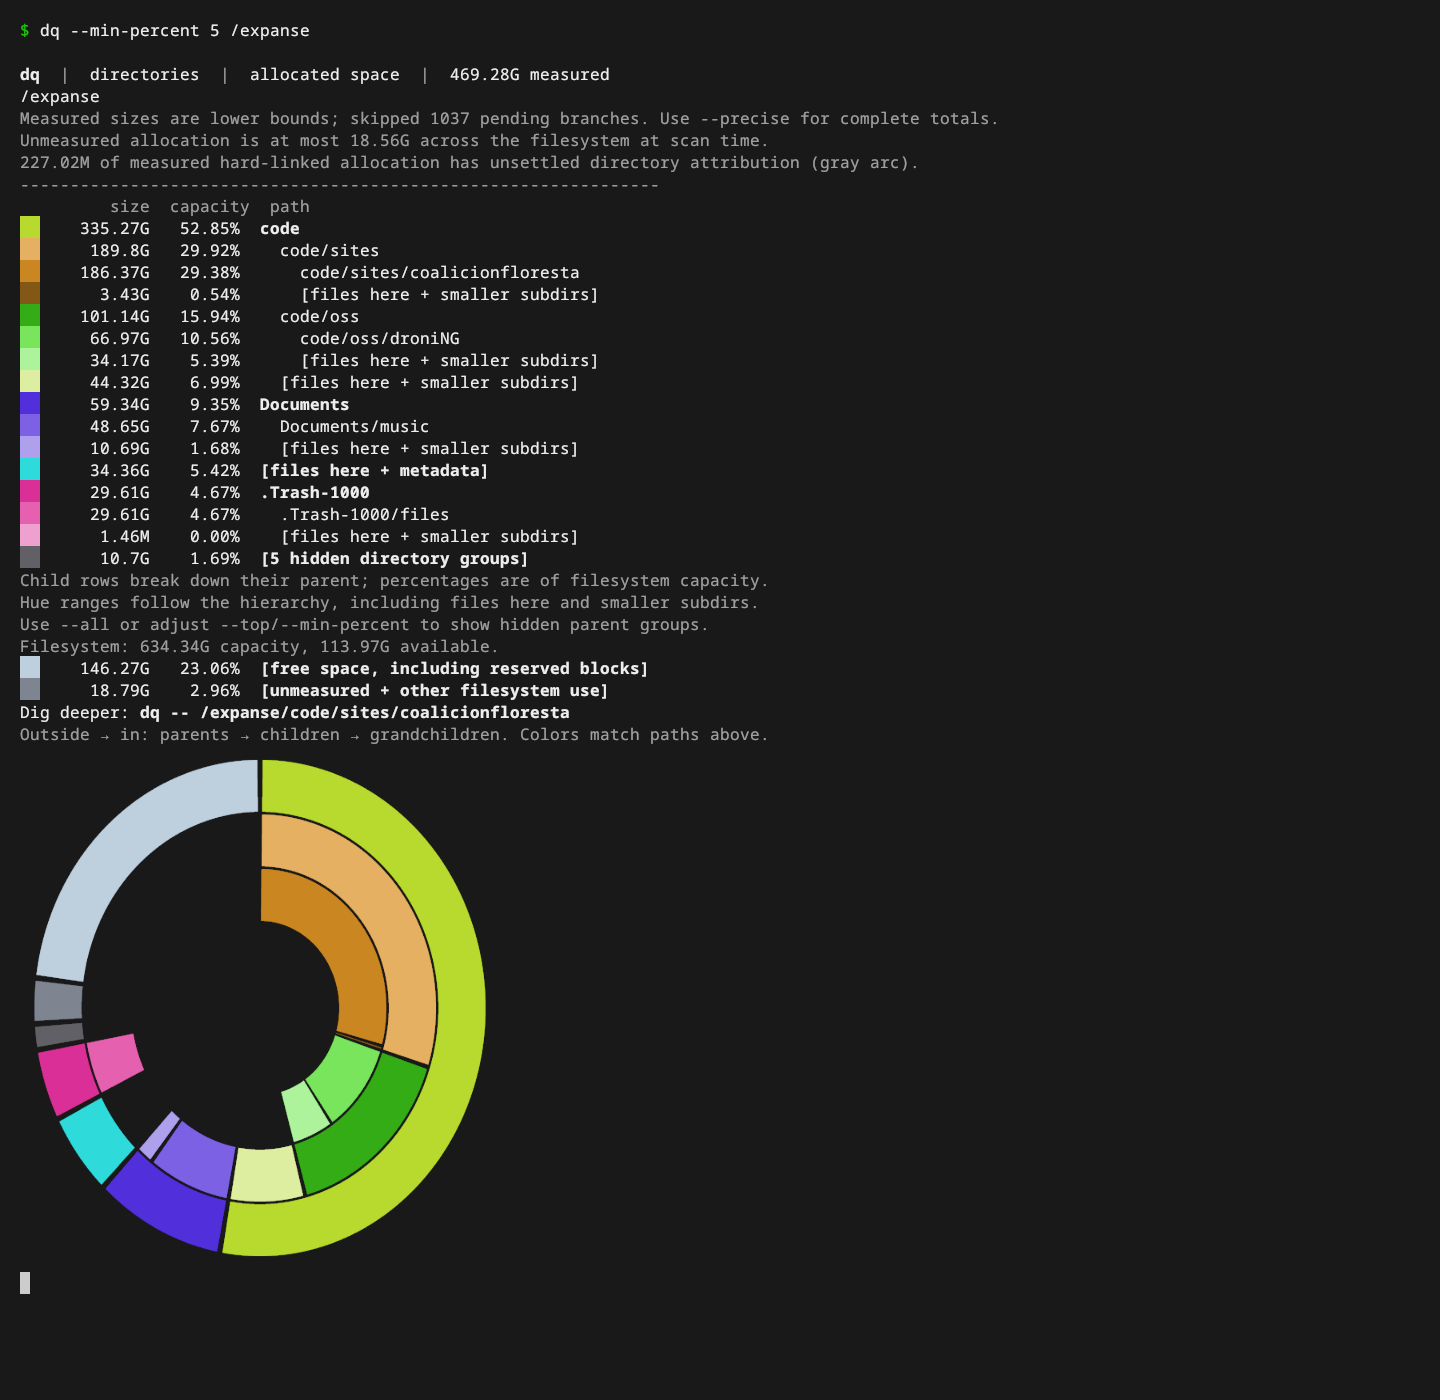
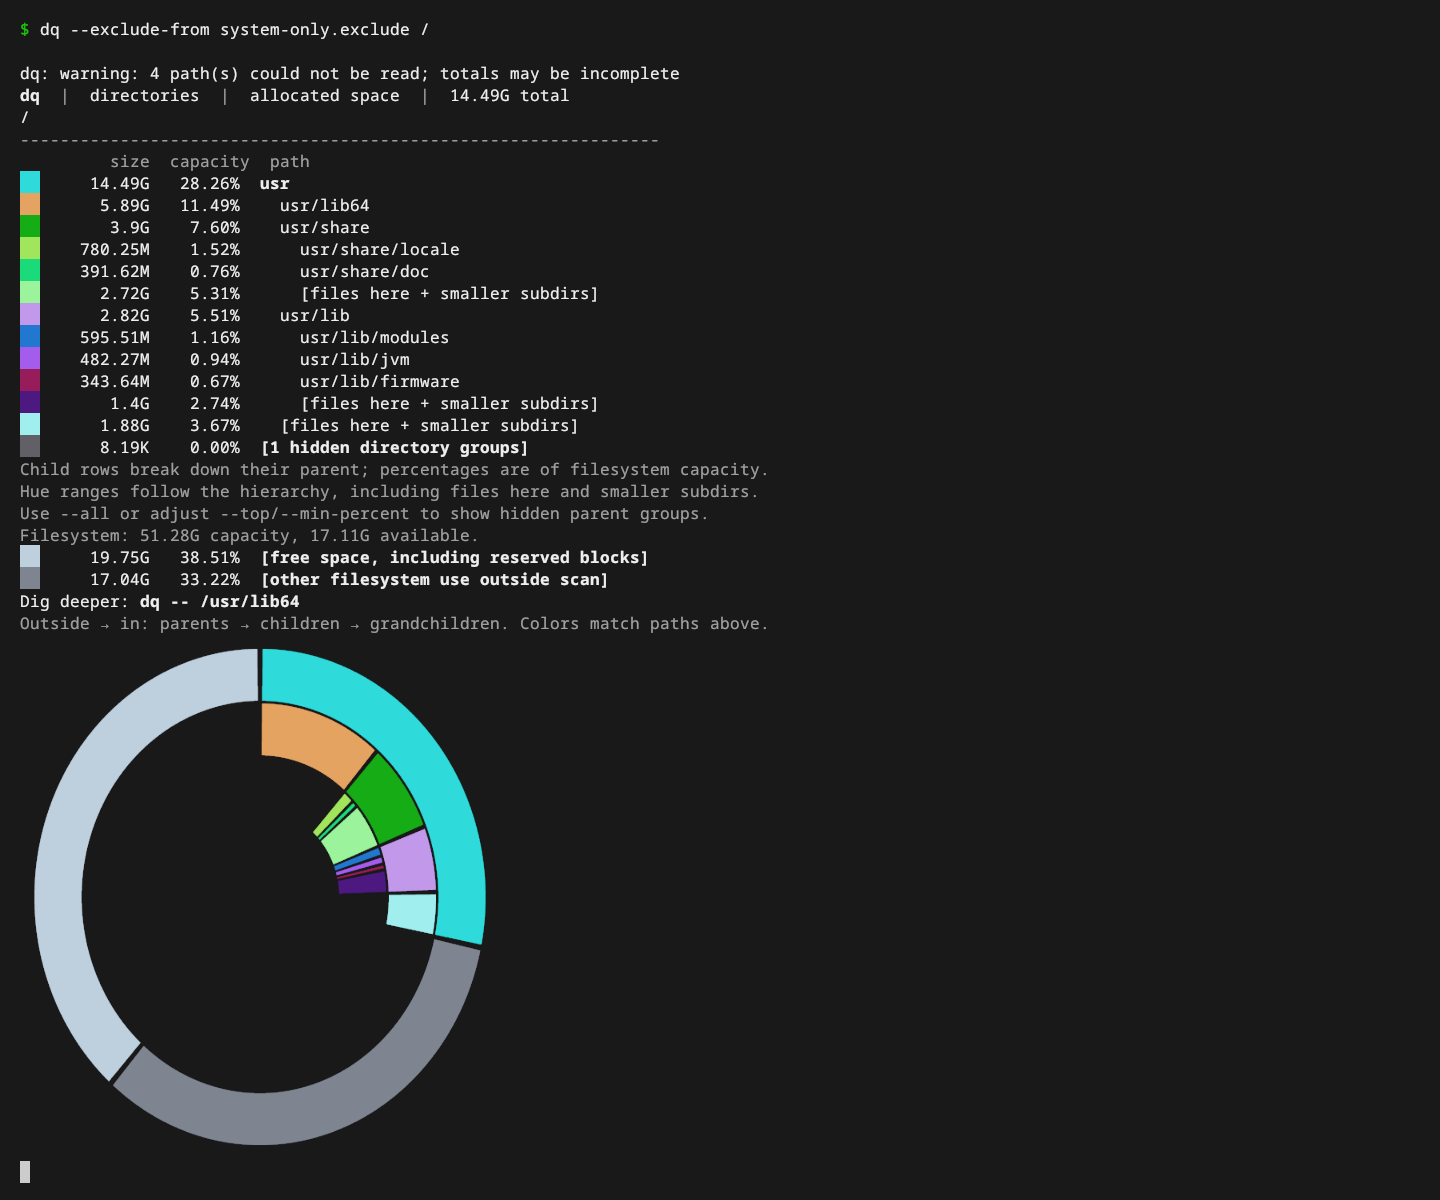
fix screenshots

diff --git a/src/lib/Gallery.svelte b/src/lib/Gallery.svelte
@@ -9,8 +9,8 @@
     { image: 'pq-network.png', command: 'pq --net -n 8', caption: 'match connections and listeners to processes', title: 'Who is talking?', notes: ['The outer ring is active connections; the inner ring is listening sockets.', 'Red ports are listening on more than localhost.'], alt: 'pq two-ring network overview showing established connections and listeners including keylogger dot sh' },
     { image: 'pq-io.png', command: 'pq --io -n 10', caption: 'see which processes are reading and writing', title: 'Who is doing I/O?', notes: ['Three short-lived demo writers make the comparison visible here.', 'The table shows the rate measured over 400 ms, not a lifetime total.'], alt: 'pq process IO report with three demo workloads and their write rates' },
     { image: 'pq-tree.png', command: 'pq --tree chrome --cpu', caption: 'keep parent and child processes together', title: 'How did it start?', notes: ['The tree keeps parent and child relationships visible.', 'With --cpu, siblings are sorted without flattening the tree.'], alt: 'pq process tree filtered to Chrome with aligned CPU memory swap PID and parent PID columns' },
-    { image: 'dq-filesystem.png', command: 'dq --min-percent 5 /expanse', caption: 'see directory hierarchies and free space across a filesystem', title: 'How full is the filesystem?', notes: ['Read outside → in: parent directories, children, grandchildren.', 'Colors in the rings match the indented path list.', 'Free space shares the outer ring with directories.'], alt: 'dq filesystem report with three aligned directory rings, matching path colors, and free space in the outer ring' },
-    { image: 'dq-project.png', command: 'dq ~/code/oss/qtools', caption: 'follow compiler output into its largest subdirectories', title: 'Where did the space go?', notes: ['This checkout is mostly compiler output under target.', 'The inner rings break target down into children and grandchildren.', 'A subdirectory uses the whole chart; free space appears only at filesystem roots.'], alt: 'dq default hierarchy report showing target, its children, and grandchildren in three aligned rings without a free-space arc' },
+    { image: 'dq-filesystem.png', command: 'dq --exclude-from system-only.exclude /', caption: 'see directory hierarchies and free space across a filesystem', title: 'How full is the filesystem?', notes: ['Read outside → in: parent directories, children, grandchildren.', 'This example includes public system directories only.', 'Free space shares the outer ring with directories.'], alt: 'dq filesystem report of public system directories with three aligned directory rings and free space in the outer ring' },
+    { image: 'dq-project.png', command: 'dq /tmp/qtools-demo/qtools', caption: 'follow compiler output into its largest subdirectories', title: 'Where did the space go?', notes: ['This demo checkout is mostly compiler output under target.', 'The inner rings break target down into children and grandchildren.', 'A subdirectory uses the whole chart; free space appears only at filesystem roots.'], alt: 'dq default hierarchy report showing target, its children, and grandchildren in three aligned rings without a free-space arc' },
     { image: 'pq-json.png', command: 'pq --json | head -36', caption: 'use the same process query from a script', title: 'Need the data?', notes: ['--json returns the report data without the terminal chart.', 'CPU, memory, swap, and process members remain separate fields.'], alt: 'pq JSON output showing sample metadata and process cluster fields' }
   ];
 
